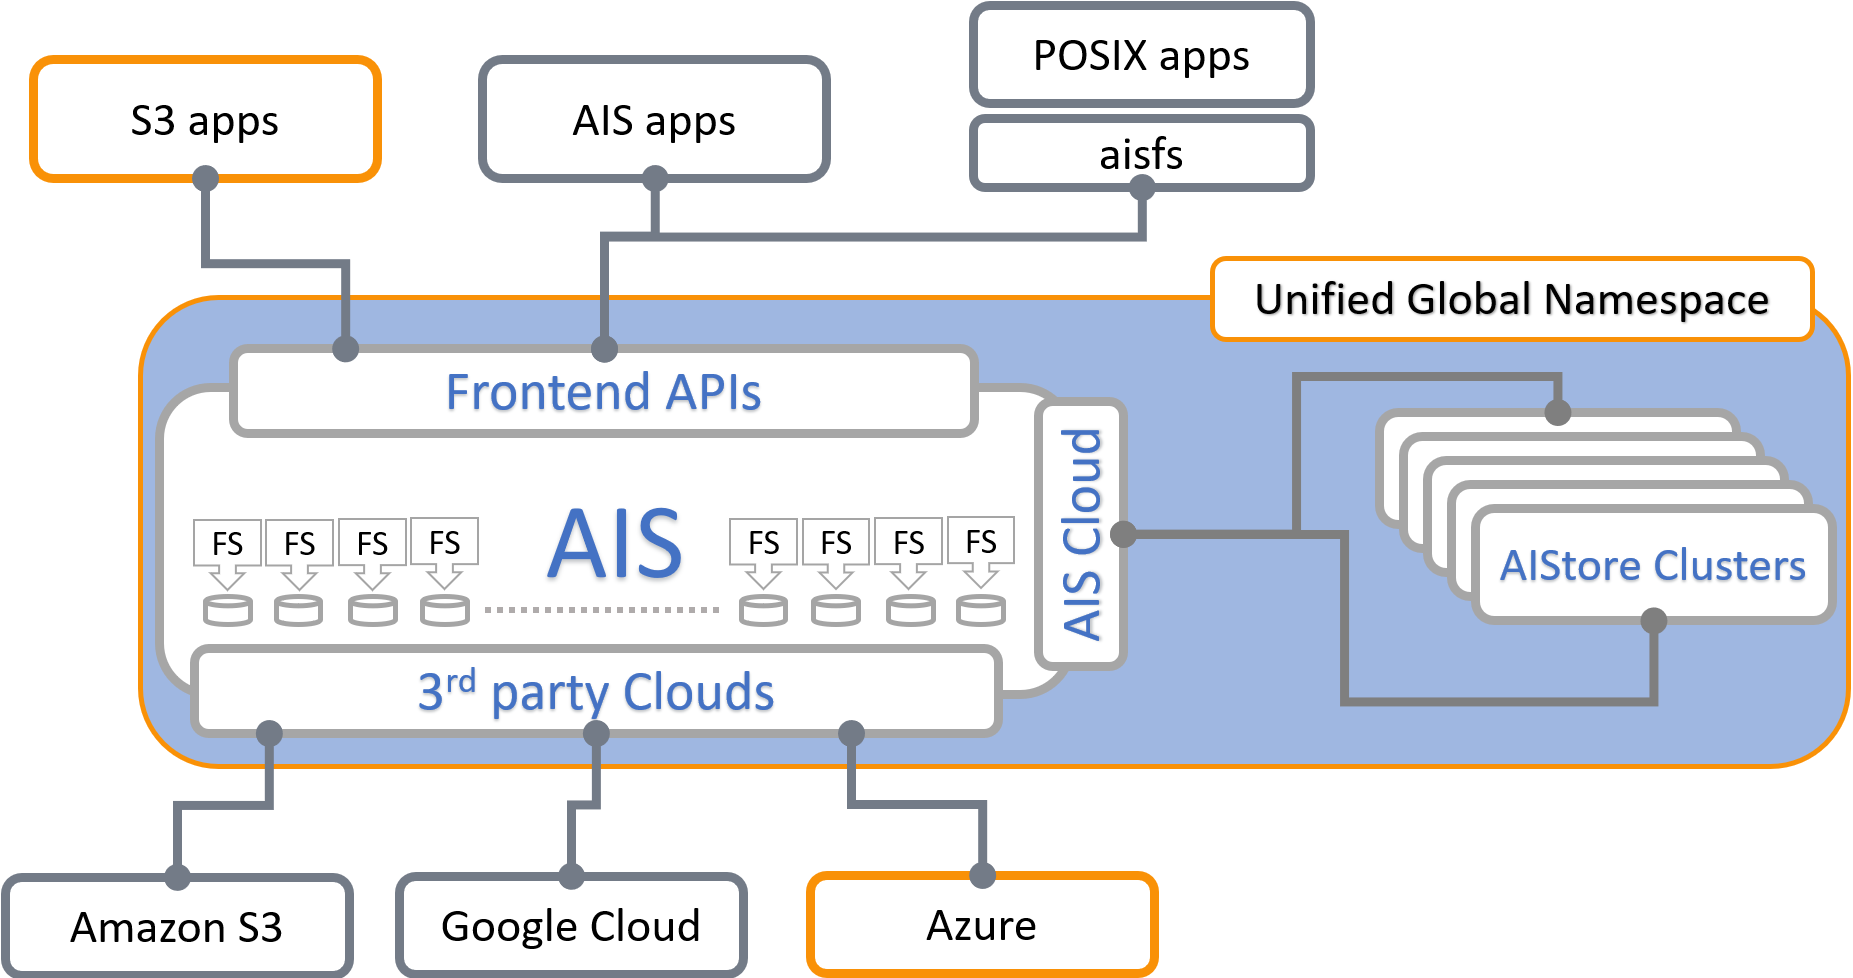
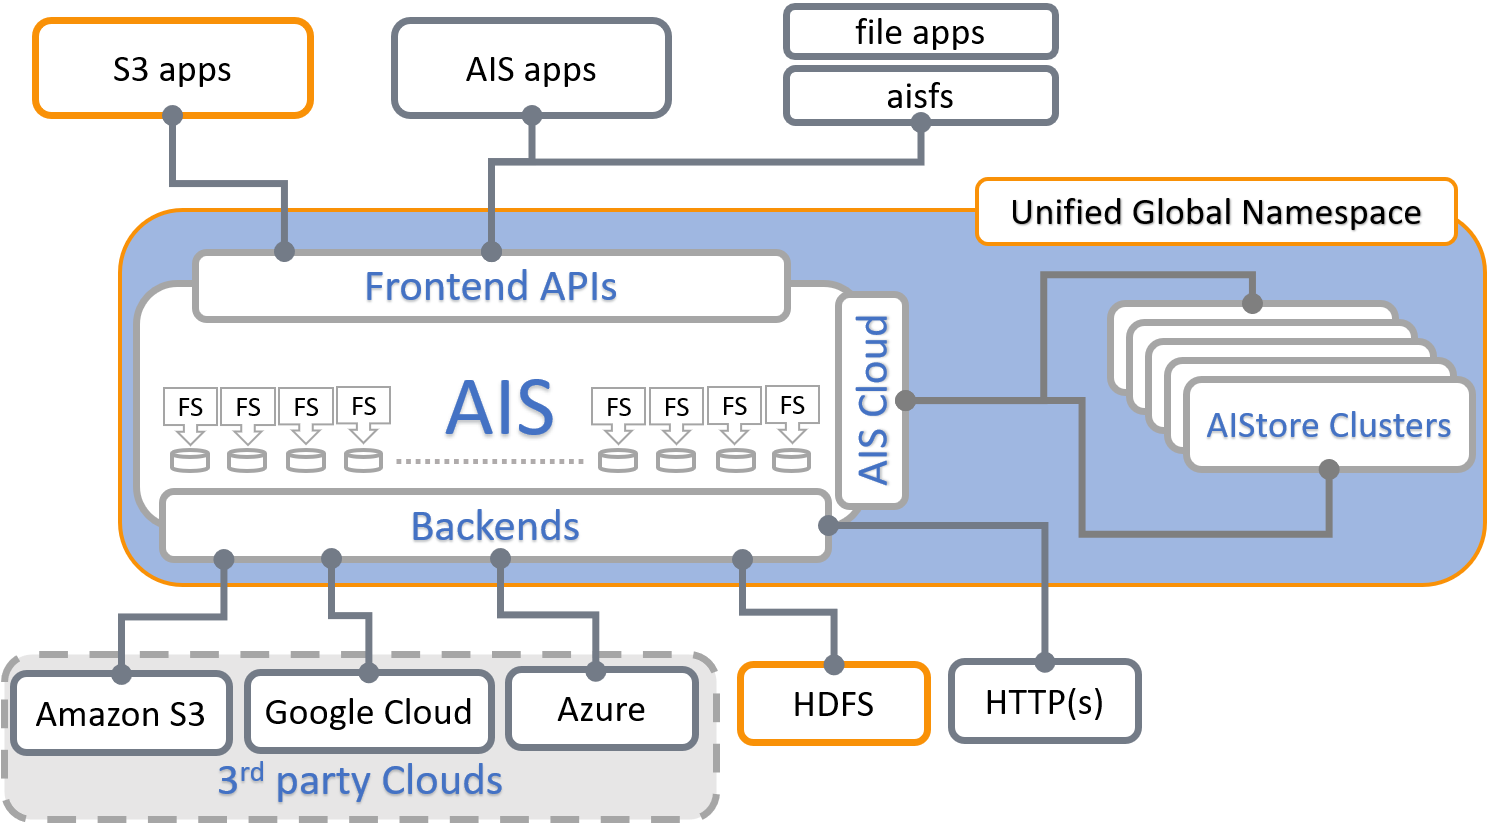
readme-3.4: new pics

diff --git a/docs/overview.md b/docs/overview.md
@@ -13,7 +13,9 @@ Also, for insights and specific requirements from a deep-learning perspective, p
 
 The rest of this document is structured as follows:
 
-- [Block Diagrams](#block-diagrams)
+- [At-a-Glance](#at-a-glance)
+- [ETL](#etl)
+- [Recently Added](#recently-added)
 - [Design Philosophy](#design-philosophy)
 - [Key Concepts and Diagrams](#key-concepts-and-diagrams)
 - [Traffic Patterns](#traffic-patterns)
@@ -29,24 +31,37 @@ The rest of this document is structured as follows:
 - [AIS no-limitations principle](#ais-no-limitations-principle)
 
 
-## Block Diagrams
+## At-a-Glance
 
-Following is a high-level architecture with an emphasis on supported (frontend and backend) APIs and the capability to scale-out horizontally. The picture also tries to make the point that AIStore aggregates arbitrary numbers of storage servers with local drives,  whereby each drive is formatted with a local filesystem (e. g., xfs or zfs).
+Following is a high-level block diagram with an emphasis on supported (frontend and backend) APIs and the capability to scale-out horizontally. The picture also tries to make the point that AIStore aggregates arbitrary numbers of storage servers with local drives,  whereby each drive is formatted with a local filesystem (e. g., xfs or zfs).
 
-<img src="images/ais-block.png" alt="New in 3.1" width="700">
+<img src="images/ais-block.png" alt="At-a-Glance" width="600">
 
-Most recently added capabilities include:
+## ETL
 
-- (**new**) [ETL offload](/etl/README.md): support for running custom extract-transform-load workloads on (and by) storage cluster;
-- (**new**) TensorFlow integration to support existing training clients that use S3 API - done via `tar2tf` ETL offload that handles on the fly TFRecord/tf.Example conversion;
+AIStore is a hyper-converged architecture tailored specifically to run AI apps. To that end, we are supporting [ETL offload](/etl/README.md): the capability to run custom extract-transform-load workloads close to data on (and by) the storage cluster:
 
 <img src="images/etl-v3.3.png" width="450">
 
+For background and further references, see:
+
+* [Extract, Transform, Load with AIStore](etl.md)
+* [AIS-ETL introduction and a Jupyter notebook walk-through](https://www.youtube.com/watch?v=4PHkqTSE0ls)
+
+## Recently Added
+
+- (**new**) [AIS Kubernetes Operator](https://github.com/NVIDIA/ais-k8s)
+- (**new**) DNS hostnames - public and intra-cluster networks;
+- (**new**) HDFS backend;
+- (**new**) Cluster and node shutdown and decommission (API, CLI);
+- bucket ACLs, users and roles, bucket and cluster level permissions;
+- [CLI](videos.md#cli-top-level-commands) (category, action, subject) auto-completions;
+- (**new**) Metadata and system data versioning and backward compatibility;
 - List objects v2: optimized `list-objects` to greatly reduce response times;
 - (**new**) Query objects: extends `list-objects` with advanced filtering capabilities;
 - (**new**) Downloader:  an option to keep AIS bucket in-sync with a (downloaded) destination;
-- (**new**) When used as HTTP Proxy (e. g., via `http_proxy=AIS_ENDPOINT`) and given HTTP(S) URLs, AIStore will on the fly create a bucket to store and cache HTTP(S) - based resources;
-- and more - see https://github.com/NVIDIA/aistore/releases.
+- (**new**) Build-time option to run AIS cluster in a reverese-proxy mode;
+- and more (for details, see https://github.com/NVIDIA/aistore/releases).
 
 In addition to AIS (native) REST API and CLI with extended capabilities to manipulate distributed content, AIStore also supports a growing list of [Backend providers](providers.md).
 

diff --git a/README.md b/README.md
@@ -18,9 +18,9 @@ The ability to scale linearly with each added disk was, and remains, one of the 
 * [Amazon S3 API](https://docs.aws.amazon.com/s3/index.html) to run unmodified S3 apps;
 * FUSE client (`aisfs`) to access AIS objects as files;
 * arbitrary number of extremely lightweight access points;
-* easy-to-use CLI that supports [TAB auto-completions](cmd/cli/README.md);
+* easy-to-use [CLI](https://www.youtube.com/watch?v=VPIhQm2sMD8&ab_channel=AIStore) based on [auto-completions](cmd/cli/README.md);
 * automated cluster rebalancing upon: changes in cluster membership, drive failures and attachments, bucket renames;
-* N-way mirroring (RAID-1), Reed–Solomon erasure coding, end-to-end data protection.
+* [N-way mirroring (RAID-1), Reed–Solomon erasure coding, end-to-end data protection](/docs/storage_svcs.md).
 * [ETL offload](/docs/etl.md): running user-defined extract-transform-load workloads on (and by) performance-optimized storage cluster;
 
 Also, AIStore:
@@ -28,7 +28,11 @@ Also, AIStore:
 * can be deployed on any commodity hardware;
 * supports single-command infrastructure and software deployment on Google Cloud Platform via [ais-k8s GitHub repo](https://github.com/NVIDIA/ais-k8s);
 * supports Amazon S3, Google Cloud, and Microsoft Azure backends (and all S3, GCS, and Azure-compliant object storages);
-* provides unified global namespace across (ad-hoc) connected AIS clusters;
+* can ad-hoc attach and "see" (read, write, list, cache, evict) datasets hosted by other AIS clusters;
+* provides unified global namespace across multiple backends:
+
+<img src="docs/images/backends.png" alt="AIStore" width="360">
+
 * can be used as a fast cache for GCS and S3; can be populated on-demand and/or via `prefetch` and `download` APIs;
 * can be used as a standalone highly-available protected storage;
 * includes MapReduce extension for massively parallel resharding of very large datasets;
@@ -36,7 +40,9 @@ Also, AIStore:
 
 AIS runs natively on Kubernetes and features open format - thus, the freedom to copy or move your data from AIS at any time using the familiar Linux `tar(1)`, `scp(1)`, `rsync(1)` and similar.
 
-For AIStore **white paper** and design philosophy, for introduction to large-scale deep learning and the most recently added features, please see [AIStore Overview](docs/overview.md) (where you can also find six alternative ways to work with existing datasets). Videos and **animated presentations** can be found at [videos](docs/videos.md). To get started with AIS, please click on [Getting Started](/docs/getting_started.md).
+For AIStore **white paper** and design philosophy, for introduction to large-scale deep learning and the most recently added features, please see [AIStore Overview](docs/overview.md) (where you can also find six alternative ways to work with existing datasets). Videos and **animated presentations** can be found at [videos](docs/videos.md).
+
+To get started with AIS, please click on [Getting Started](/docs/getting_started.md).
 
 **Table of Contents**
 
